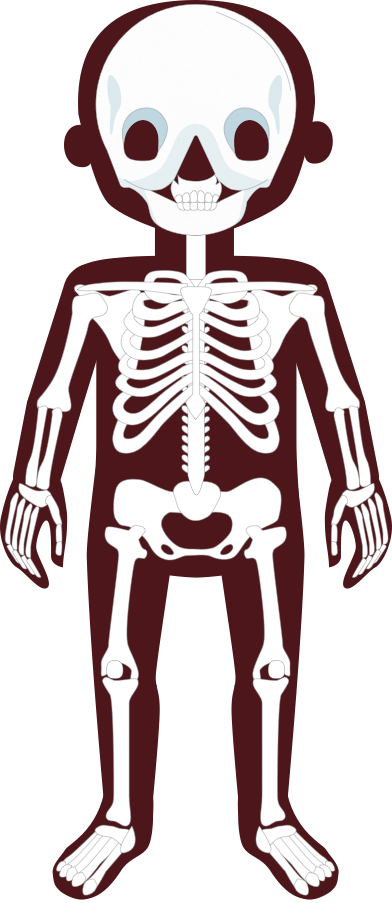
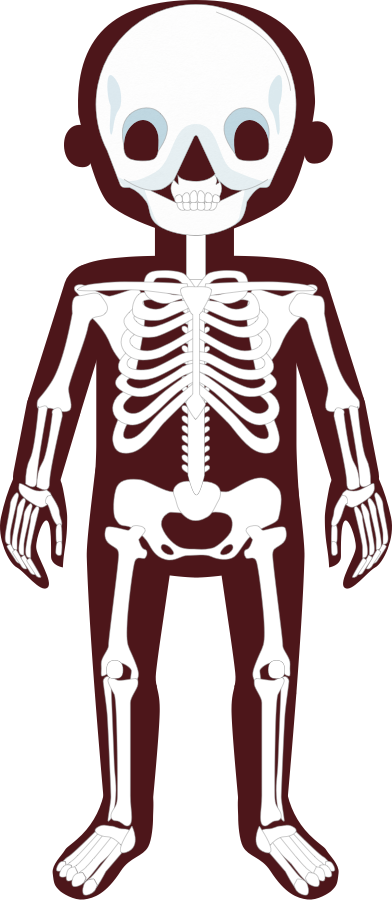
Replaced skeletal png Changed sounds for procedures

Changed region(s): [[0.6429, 0.7442, 0.7347, 0.9302], [0.2449, 0.7442, 0.3367, 0.9302]]

diff --git a/src/components/navigation/XRay.tsx b/src/components/navigation/XRay.tsx
@@ -1,4 +1,4 @@
-import * as React from 'react';
+  import * as React from 'react';
 import { useNavBarTranslation } from '../../hooks';
 import { Paths } from '../../types/Paths';
 import { useProcedureContext } from '../../state/procedure';
@@ -16,7 +16,7 @@ type Props = {
   prefix: Paths;
 };
 
-const XRay = ({ path, prefix }: Props) => {
+const XRay = ({ prefix }: Props) => {
   const t = useNavBarTranslation(prefix);
   const navigate = useNavigate();
   const [{ step, value }, setStep] = useProcedureContext();
@@ -37,7 +37,7 @@ const XRay = ({ path, prefix }: Props) => {
           marginTop: 20,
         }}
         onClick={() => {
-          playSound('click');
+          playSound('completeStep');
           setStep({ step: 2 });
         }}
       >
@@ -79,7 +79,7 @@ const XRay = ({ path, prefix }: Props) => {
           marginTop: 20,
         }}
         onClick={() => {
-          playSound('click');
+          playSound('completeProcedure');
           setStep((oldState) => ({ ...oldState, step: 5, hideButtons: true }));
         }}
       >

diff --git a/src/components/scene/ProceduresTextBox.tsx b/src/components/scene/ProceduresTextBox.tsx
@@ -4,7 +4,6 @@ import * as React from 'react';
 import { CSSProperties } from 'react';
 import playSound from '../../sound';
 import { useProcedureContext } from '../../state/procedure';
-import { set } from 'husky';
 
 type Props = {
   animatedStyle?: CSSProperties;
@@ -70,7 +69,9 @@ const ProceduresTextBox = ({
           zIndex: 1,
         }}
       >
-        <span style={{ display: 'inline-block', marginBottom: 20 }}>{text}</span>
+        <span style={{ display: 'inline-block', marginBottom: 20 }}>
+          {text}
+        </span>
         {buttonText && (
           <button
             style={{
